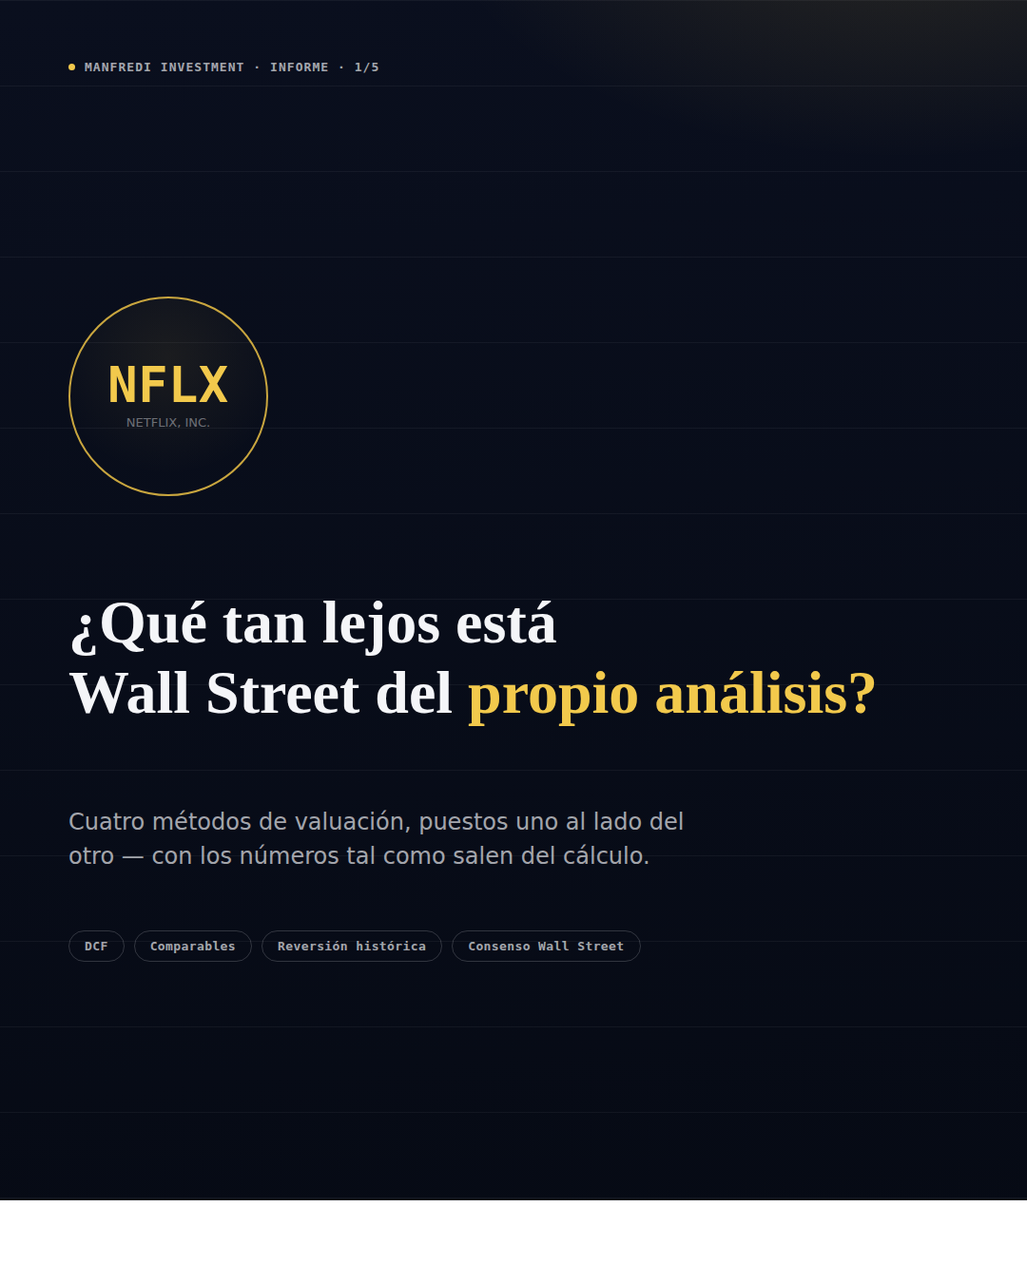
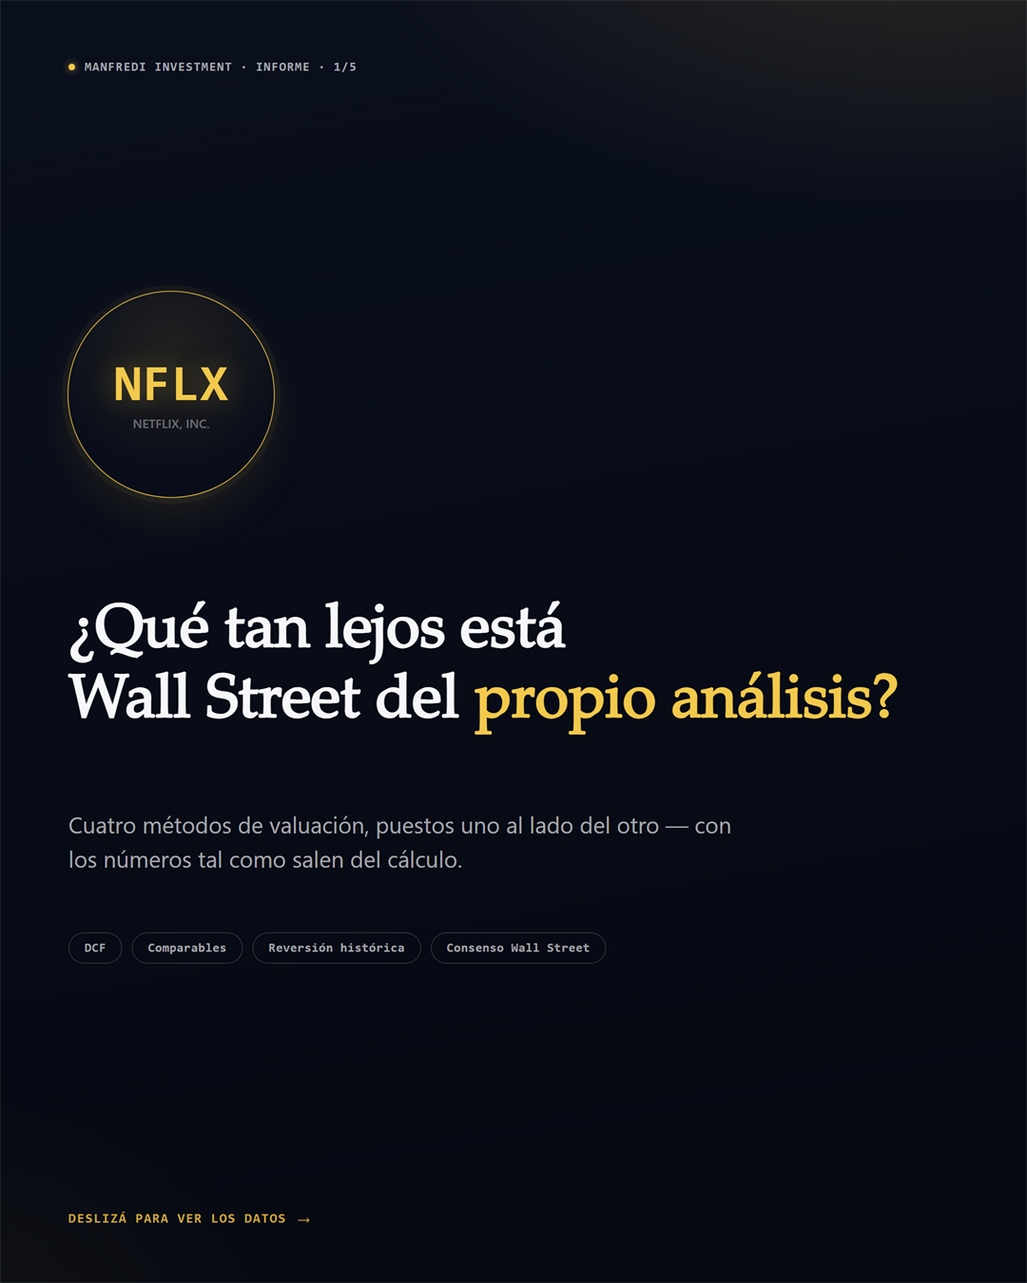
fix: rehace el carrusel de NFLX con el sistema visual v2 aprobado
Este carrusel lo genero el robot diario antes de que se terminara de
ajustar el diseno (corrio a las 00:05 UTC con el _shared.css viejo).
El analisis y el copy del bot eran buenos, solo se restilizo con las
mismas clases nuevas usadas en carousel-v2-nvda/ (sin ruled-bg, sin
gridlines, barras pildora con degrade, insight en tarjeta).

diff --git a/marketing/ig-posts/2026-08-08-nflx/_shared.css b/marketing/ig-posts/2026-08-08-nflx/_shared.css
@@ -3,12 +3,12 @@
   src: local('Iowan Old Style'), local('Palatino Linotype'), local('Palatino'), local('Georgia');
 }
 :root {
-  --navy: #0A0F1E; --navy-2: #060A14; --navy-panel: #111A2E;
-  --gold: #F2C94C; --gold-dim: #C9A63F; --gold-glow: rgba(242,201,76,.14);
-  --green: #34D399; --red-muted: #C97A6B;
-  --off-white: #F4F5F8; --ink-2: rgba(244,245,248,.68); --ink-3: rgba(244,245,248,.42);
-  --hair: rgba(244,245,248,.10); --hair-strong: rgba(244,245,248,.18);
-  --slate: #5B6785;
+  --navy: #0A0F1E; --navy-2: #050810; --navy-panel: #111A2E;
+  --gold: #F2C94C; --gold-lt: #FFE9A8; --gold-dim: #C9A63F; --gold-glow: rgba(242,201,76,.16);
+  --bull: #1F8F6B; --bull-lt: #3FBE93; --bear: #B8654F; --bear-lt: #D08268;
+  --off-white: #F6F7FA; --ink-2: rgba(246,247,250,.66); --ink-3: rgba(246,247,250,.40);
+  --ghost-fill-a: rgba(246,247,250,.15); --ghost-fill-b: rgba(246,247,250,.05); --ghost-border: rgba(246,247,250,.24);
+  --hair-strong: rgba(246,247,250,.16);
   --serif: 'MISerif', 'Iowan Old Style', 'Palatino Linotype', Palatino, Georgia, serif;
   --sans: -apple-system, 'Segoe UI', system-ui, Roboto, Helvetica, Arial, sans-serif;
   --mono: ui-monospace, 'SF Mono', Consolas, monospace;
@@ -20,30 +20,26 @@ body { font-family: var(--sans); }
 .slide {
   width: 1080px; height: 1350px; position: relative; overflow: hidden;
   background:
-    radial-gradient(900px 500px at 88% -8%, var(--gold-glow), transparent 55%),
-    linear-gradient(175deg, var(--navy) 0%, var(--navy-2) 100%);
+    radial-gradient(1100px 620px at 90% -10%, var(--gold-glow), transparent 58%),
+    radial-gradient(800px 500px at -10% 105%, rgba(242,201,76,.06), transparent 55%),
+    linear-gradient(170deg, var(--navy) 0%, var(--navy-2) 100%);
   color: var(--off-white);
   display: flex; flex-direction: column;
   padding: 64px 72px 56px;
-}
-.ruled-bg {
-  position: absolute; inset: 0; pointer-events: none;
-  background-image: linear-gradient(var(--hair) 1px, transparent 1px);
-  background-size: 100% 90px; opacity: .5;
 }
 
 /* header row: shared across slides 2-5 */
 .slide-head { display: flex; align-items: center; justify-content: space-between; z-index: 2; }
 .slide-eyebrow { display: flex; align-items: center; gap: 10px; }
-.eyebrow-dot { width: 7px; height: 7px; border-radius: 50%; background: var(--gold); }
+.eyebrow-dot { width: 7px; height: 7px; border-radius: 50%; background: var(--gold); box-shadow: 0 0 8px rgba(242,201,76,.7); }
 .eyebrow-text { font: 600 13px/1 var(--mono); letter-spacing: .08em; text-transform: uppercase; color: var(--ink-2); }
-.ticker-mini { display: flex; align-items: center; gap: 9px; }
-.ticker-mini-badge { font: 700 15px/1 var(--mono); background: var(--gold); color: var(--navy); padding: 6px 10px 5px; border-radius: 3px; letter-spacing: .02em; }
+.ticker-mini { display: flex; align-items: center; gap: 10px; }
+.ticker-mini-badge { font: 700 15px/1 var(--mono); background: linear-gradient(180deg,var(--gold-lt),var(--gold) 60%,var(--gold-dim)); color: var(--navy); padding: 7px 11px 6px; border-radius: 5px; letter-spacing: .02em; box-shadow: 0 3px 10px rgba(242,201,76,.25); }
 .ticker-mini-name { font: 500 13px/1 var(--sans); color: var(--ink-3); }
 
-.slide-title { font: 600 46px/1.2 var(--serif); letter-spacing: -.01em; margin: 30px 0 8px; max-width: 880px; z-index: 2; }
+.slide-title { font: 600 46px/1.22 var(--serif); letter-spacing: -.01em; margin: 28px 0 6px; max-width: 880px; z-index: 2; text-wrap: balance; }
 .slide-title .accent { color: var(--gold); }
-.slide-kicker { font: 600 15px/1 var(--mono); letter-spacing: .06em; text-transform: uppercase; color: var(--gold-dim); margin: 0 0 14px; z-index: 2; }
+.slide-kicker { font: 600 14px/1 var(--mono); letter-spacing: .08em; text-transform: uppercase; color: var(--gold-dim); margin: 0 0 16px; z-index: 2; }
 
 /* footer, shared */
 .slide-footer {
@@ -55,60 +51,67 @@ body { font-family: var(--sans); }
 .cta-url { font: 500 15px/1 var(--mono); color: var(--ink-3); }
 .progress { display: flex; gap: 6px; }
 .progress i { width: 22px; height: 3px; border-radius: 2px; background: var(--hair-strong); display: block; }
-.progress i.on { background: var(--gold); }
+.progress i.on { background: var(--gold); box-shadow: 0 0 6px rgba(242,201,76,.6); }
 
-/* ===== horizontal bar chart (football field) ===== */
-.hchart { z-index: 2; margin-top: 26px; }
-.hchart-axis { position: relative; height: 22px; margin-bottom: 6px; }
-.hchart-axis span { position: absolute; top: 0; transform: translateX(-50%); font: 500 12px/1 var(--mono); color: var(--ink-3); }
-.hchart-grid { position: relative; }
-.hchart-gridline { position: absolute; top: 0; bottom: 0; width: 1px; background: var(--hair); }
-.hrow { position: relative; display: flex; align-items: center; height: 84px; }
-.hrow-label { position: absolute; left: 0; top: 8px; font: 600 15px/1.3 var(--sans); color: var(--ink-2); max-width: 220px; }
-.hrow-track { position: absolute; left: 0; right: 0; top: 38px; height: 30px; }
-.hbar { position: absolute; left: 0; top: 0; height: 100%; border-radius: 0 3px 3px 0; }
-.hbar.method { background: linear-gradient(90deg, var(--slate), #7889AC); }
-.hbar.method.emph { background: linear-gradient(90deg, var(--gold-dim), var(--gold)); }
-.hbar-val { position: absolute; top: 50%; transform: translateY(-50%); font: 700 17px/1 var(--mono); color: var(--navy); padding-left: 12px; }
-.hbar-val.outside { color: var(--off-white); }
-.price-line { position: absolute; top: -6px; bottom: -6px; width: 2px; background: var(--off-white); z-index: 3; }
-.price-line::after {
-  content: attr(data-label); position: absolute; top: -30px; left: 50%; transform: translateX(-50%);
-  font: 700 12.5px/1 var(--mono); color: var(--off-white); white-space: nowrap; letter-spacing: .02em;
+/* ===== horizontal bar chart (football field) — no gridlines, direct labels ===== */
+.hchart { z-index: 2; margin-top: 34px; }
+.hrow { position: relative; display: flex; align-items: center; height: 96px; }
+.hrow-label { position: absolute; left: 0; top: 6px; font: 600 16px/1.3 var(--sans); color: var(--ink-2); max-width: 320px; }
+.hrow-label b { color: var(--off-white); font-weight: 650; }
+.hrow-track { position: absolute; left: 0; right: 0; top: 40px; height: 38px; }
+.hbar { position: absolute; left: 0; top: 0; height: 100%; border-radius: 999px; }
+.hbar.method {
+  background: linear-gradient(180deg, var(--ghost-fill-a), var(--ghost-fill-b));
+  border: 1px solid var(--ghost-border);
+  box-shadow: inset 0 1px 0 rgba(255,255,255,.10);
 }
-.price-line::before {
-  content: ''; position: absolute; top: -6px; left: 50%; transform: translateX(-50%);
-  border-left: 5px solid transparent; border-right: 5px solid transparent; border-top: 5px solid var(--off-white);
+.hbar.method.emph {
+  background: linear-gradient(180deg, var(--gold-lt) 0%, var(--gold) 55%, var(--gold-dim) 100%);
+  box-shadow: 0 8px 24px rgba(242,201,76,.38), inset 0 1px 0 rgba(255,255,255,.55);
+  border: none;
+}
+.hbar-val { position: absolute; top: 50%; transform: translateY(-50%); font: 700 19px/1 var(--mono); color: var(--off-white); }
+.hbar-val.emph-val { color: var(--gold); }
+.price-line { position: absolute; top: -14px; bottom: 0; width: 1.5px; background: linear-gradient(180deg, rgba(246,247,250,.85), rgba(246,247,250,.15)); z-index: 3; }
+.price-flag {
+  position: absolute; top: -38px; left: 50%; transform: translateX(-50%);
+  background: var(--navy-panel); border: 1px solid var(--hair-strong); border-radius: 5px;
+  padding: 5px 10px; font: 700 12px/1 var(--mono); color: var(--gold); white-space: nowrap;
+  box-shadow: 0 4px 12px rgba(0,0,0,.3);
 }
 
-/* ===== vertical bar chart ===== */
-.vchart { z-index: 2; margin-top: 30px; display: flex; align-items: flex-end; gap: 44px; height: 560px; position: relative; padding-left: 4px; }
-.vchart-gridline { position: absolute; left: 0; right: 0; height: 1px; background: var(--hair); }
-.vchart-gridline span { position: absolute; left: -6px; top: -8px; transform: translateX(-100%); font: 500 12px/1 var(--mono); color: var(--ink-3); }
+/* ===== vertical bar chart — single baseline, no grid ===== */
+.vchart { z-index: 2; margin-top: 36px; display: flex; align-items: flex-end; gap: 48px; height: 560px; position: relative; padding-left: 4px; border-bottom: 1px solid var(--hair-strong); }
 .vcol { position: relative; flex: 1; display: flex; flex-direction: column; align-items: center; justify-content: flex-end; height: 100%; }
-.vbar { width: 100%; max-width: 168px; border-radius: 4px 4px 0 0; position: relative; }
-.vbar-val { position: absolute; top: -34px; left: 50%; transform: translateX(-50%); font: 700 22px/1 var(--mono); color: var(--off-white); white-space: nowrap; }
-.vcol-label { margin-top: 16px; font: 600 15px/1.3 var(--sans); color: var(--ink-2); text-align: center; }
+.vbar { width: 100%; max-width: 176px; border-radius: 14px 14px 3px 3px; position: relative; }
+.vbar.gold { background: linear-gradient(180deg, var(--gold-lt) 0%, var(--gold) 55%, var(--gold-dim) 100%); box-shadow: 0 10px 30px rgba(242,201,76,.32); }
+.vbar.ghost { background: linear-gradient(180deg, var(--ghost-fill-a), var(--ghost-fill-b)); border: 1px solid var(--ghost-border); box-shadow: inset 0 1px 0 rgba(255,255,255,.10); }
+.vbar.bear { background: linear-gradient(180deg, var(--bear-lt), var(--bear)); box-shadow: 0 8px 22px rgba(184,101,79,.28); }
+.vbar.bull { background: linear-gradient(180deg, var(--bull-lt), var(--bull)); box-shadow: 0 8px 22px rgba(31,143,107,.3); }
+.vbar-val { position: absolute; top: -38px; left: 50%; transform: translateX(-50%); font: 700 24px/1 var(--mono); color: var(--off-white); white-space: nowrap; }
+.vbar-val.gold-val { color: var(--gold); }
+.vcol-label { margin-top: 18px; font: 600 16px/1.3 var(--sans); color: var(--ink-2); text-align: center; }
 .vcol-sub { font: 500 12px/1.3 var(--mono); color: var(--ink-3); text-align: center; margin-top: 3px; }
-.ref-line { position: absolute; left: -4px; right: -4px; height: 0; border-top: 2px dashed rgba(244,245,248,.55); z-index: 3; }
-.ref-line span { position: absolute; right: 0; top: -22px; font: 700 12.5px/1 var(--mono); color: var(--off-white); background: var(--navy); padding: 2px 6px; }
+.ref-line { position: absolute; left: -6px; right: -6px; height: 1.5px; background: linear-gradient(90deg, rgba(246,247,250,.05), rgba(246,247,250,.75) 15%, rgba(246,247,250,.75) 85%, rgba(246,247,250,.05)); z-index: 3; }
+.ref-line span { position: absolute; right: 4px; top: -34px; font: 700 12.5px/1 var(--mono); color: var(--gold); background: var(--navy-panel); border: 1px solid var(--hair-strong); padding: 5px 10px; border-radius: 5px; box-shadow: 0 4px 12px rgba(0,0,0,.3); }
 
-/* ===== annotation callout ===== */
-.insight { z-index: 2; margin-top: 34px; display: flex; gap: 14px; align-items: flex-start; max-width: 840px; }
-.insight-mark { flex: 0 0 auto; width: 28px; height: 28px; border-radius: 50%; background: var(--gold); color: var(--navy); font: 700 15px/28px var(--serif); text-align: center; }
-.insight p { margin: 0; font: 400 19px/1.55 var(--sans); color: var(--ink-2); }
+/* ===== annotation callout — bordered card, editorial eyebrow instead of icon ===== */
+.insight { z-index: 2; margin-top: 40px; max-width: 860px; background: linear-gradient(135deg, rgba(246,247,250,.05), rgba(246,247,250,.02)); border: 1px solid var(--hair-strong); border-left: 3px solid var(--gold); border-radius: 4px; padding: 20px 24px; }
+.insight .insight-eyebrow { display: block; font: 700 11.5px/1 var(--mono); letter-spacing: .1em; text-transform: uppercase; color: var(--gold-dim); margin-bottom: 10px; }
+.insight p { margin: 0; font: 400 19.5px/1.55 var(--sans); color: var(--ink-2); }
 .insight strong { color: var(--off-white); font-weight: 650; }
 
 /* cover slide (1) specifics */
 .cover-badge {
-  width: 210px; height: 210px; border-radius: 50%; border: 2px solid var(--gold-dim);
+  width: 216px; height: 216px; border-radius: 50%; position: relative; z-index: 2;
   display: flex; flex-direction: column; align-items: center; justify-content: center;
-  margin: 40px 0 36px; position: relative; z-index: 2;
-  background: radial-gradient(circle at 50% 30%, rgba(242,201,76,.08), transparent 70%);
+  margin: 40px 0 36px;
+  background: radial-gradient(circle at 50% 28%, rgba(242,201,76,.10), transparent 72%);
+  box-shadow: 0 0 0 1px var(--gold-dim), 0 0 0 7px rgba(242,201,76,.05), 0 20px 50px rgba(242,201,76,.10);
 }
-.cover-badge .tk { font: 700 52px/1 var(--mono); color: var(--gold); letter-spacing: .01em; }
-.cover-badge .co { font: 500 13px/1.3 var(--sans); color: var(--ink-3); margin-top: 6px; text-align: center; padding: 0 20px; }
-.cover-headline { font: 600 64px/1.15 var(--serif); max-width: 880px; z-index: 2; text-wrap: balance; }
+.cover-badge .tk { font: 700 54px/1 var(--mono); color: var(--gold); letter-spacing: .01em; text-shadow: 0 0 30px rgba(242,201,76,.35); }
+.cover-badge .co { font: 500 13px/1.3 var(--sans); color: var(--ink-3); margin-top: 7px; text-align: center; padding: 0 20px; }
+.cover-headline { font: 600 64px/1.16 var(--serif); max-width: 880px; z-index: 2; text-wrap: balance; }
 .cover-headline .accent { color: var(--gold); }
 .cover-sub { font: 400 24px/1.5 var(--sans); color: var(--ink-2); max-width: 700px; margin-top: 18px; z-index: 2; }
 .swipe-cue { z-index: 2; margin-top: auto; padding-top: 26px; display: flex; align-items: center; gap: 10px; }
@@ -117,14 +120,16 @@ body { font-family: var(--sans); }
 
 /* CTA slide (5) specifics */
 .cta-wrap { flex: 1; display: flex; flex-direction: column; justify-content: center; z-index: 2; }
-.cta-title { font: 600 58px/1.18 var(--serif); max-width: 820px; margin: 0 0 22px; }
+.cta-title { font: 600 58px/1.18 var(--serif); max-width: 820px; margin: 0 0 24px; text-wrap: balance; }
 .cta-title .accent { color: var(--gold); }
-.cta-list { list-style: none; margin: 0 0 40px; padding: 0; display: flex; flex-direction: column; gap: 13px; }
-.cta-list li { font: 500 20px/1.4 var(--sans); color: var(--ink-2); display: flex; gap: 12px; }
-.cta-list li .m { color: var(--gold-dim); }
+.cta-list { list-style: none; margin: 0 0 40px; padding: 0; display: flex; flex-direction: column; gap: 15px; }
+.cta-list li { font: 500 20px/1.4 var(--sans); color: var(--ink-2); display: flex; gap: 14px; align-items: baseline; }
+.cta-list li .m { color: var(--gold); font-family: var(--serif); font-size: 22px; }
 .cta-button {
   display: inline-flex; align-items: center; gap: 10px; align-self: flex-start;
-  background: var(--gold); color: var(--navy); font: 700 20px/1 var(--sans);
-  padding: 18px 26px; border-radius: 4px; letter-spacing: -.005em;
+  background: linear-gradient(180deg, var(--gold-lt), var(--gold) 60%, var(--gold-dim));
+  color: var(--navy); font: 700 20px/1 var(--sans);
+  padding: 19px 28px; border-radius: 6px; letter-spacing: -.005em;
+  box-shadow: 0 10px 30px rgba(242,201,76,.3);
 }
-.cta-disclaimer { font: 400 13px/1.5 var(--sans); color: var(--ink-3); margin-top: 22px; max-width: 620px; font-style: italic; }
+.cta-disclaimer { font: 400 13px/1.5 var(--sans); color: var(--ink-3); margin-top: 24px; max-width: 620px; font-style: italic; }

diff --git a/marketing/ig-posts/2026-08-08-nflx/slide-2-football-field.html b/marketing/ig-posts/2026-08-08-nflx/slide-2-football-field.html
@@ -1,7 +1,6 @@
 <!doctype html><html><head><meta charset="utf-8"><link rel="stylesheet" href="_shared.css"></head>
 <body>
 <div class="slide">
-  <div class="ruled-bg"></div>
   <div class="slide-head">
     <div class="slide-eyebrow">
       <span class="eyebrow-dot"></span>
@@ -17,51 +16,35 @@
   <p class="slide-title">Tres métodos casi coinciden.<br><span class="accent">Wall Street no.</span></p>
 
   <div class="hchart">
-    <div class="hchart-axis">
-      <span style="left:0%;">$0</span>
-      <span style="left:16.67%;">$20</span>
-      <span style="left:33.33%;">$40</span>
-      <span style="left:50%;">$60</span>
-      <span style="left:66.67%;">$80</span>
-      <span style="left:83.33%;">$100</span>
-      <span style="left:100%;">$120</span>
+    <div class="hrow" style="margin-top:6px;">
+      <span class="hrow-label"><b>DCF — Base</b> · el más riguroso</span>
+      <div class="hrow-track">
+        <div class="price-line" style="left:61.1%;"></div>
+        <span class="price-flag" style="left:61.1%; transform:translate(-50%,0);">PRECIO ACTUAL $73.33</span>
+        <div class="hbar method emph" style="width:48.2%;"></div>
+        <span class="hbar-val emph-val" style="left:calc(48.2% + 16px);">$57.81</span>
+      </div>
     </div>
-    <div class="hchart-grid" style="padding-top:6px;">
-      <div class="hchart-gridline" style="left:0%;"></div>
-      <div class="hchart-gridline" style="left:16.67%;"></div>
-      <div class="hchart-gridline" style="left:33.33%;"></div>
-      <div class="hchart-gridline" style="left:50%;"></div>
-      <div class="hchart-gridline" style="left:66.67%;"></div>
-      <div class="hchart-gridline" style="left:83.33%;"></div>
-      <div class="hchart-gridline" style="left:100%;"></div>
-      <div class="price-line" style="left:61.11%;" data-label="PRECIO ACTUAL — $73.33"></div>
-
-      <div class="hrow">
-        <span class="hrow-label">DCF — Base <span style="color:var(--gold-dim);">(riguroso)</span></span>
-        <div class="hrow-track">
-          <div class="hbar method emph" style="width:48.18%;"></div>
-          <span class="hbar-val outside" style="left:calc(48.18% + 14px);">$57.81</span>
-        </div>
+    <div class="hrow">
+      <span class="hrow-label">Comparables (panel P/E)</span>
+      <div class="hrow-track">
+        <div class="price-line" style="left:61.1%;"></div>
+        <div class="hbar method" style="width:53.4%;"></div>
+        <span class="hbar-val" style="left:calc(53.4% + 16px);">$64.08</span>
       </div>
-      <div class="hrow">
-        <span class="hrow-label">Comparables (P/E panel)</span>
-        <div class="hrow-track">
-          <div class="hbar method" style="width:53.4%;"></div>
-          <span class="hbar-val outside" style="left:calc(53.4% + 14px);">$64.08</span>
-        </div>
-      </div>
-      <div class="hrow">
-        <span class="hrow-label">Consenso Wall Street</span>
-        <div class="hrow-track">
-          <div class="hbar method" style="width:78.61%;"></div>
-          <span class="hbar-val outside" style="left:calc(78.61% + 14px);">$94.33</span>
-        </div>
+    </div>
+    <div class="hrow">
+      <span class="hrow-label">Consenso Wall Street</span>
+      <div class="hrow-track">
+        <div class="price-line" style="left:61.1%;"></div>
+        <div class="hbar method" style="width:78.6%;"></div>
+        <span class="hbar-val" style="left:calc(78.6% + 16px);">$94.33</span>
       </div>
     </div>
   </div>
 
   <div class="insight">
-    <span class="insight-mark">i</span>
+    <span class="insight-eyebrow">Por qué importa</span>
     <p><strong>El promedio de DCF Base, comparables y consenso da $72.07</strong> — apenas 1.7% por debajo del mercado. Pero tomado solo, el consenso de Wall Street ($94.33) implica un upside de 28.6% que ni el DCF ni los comparables convalidan.</p>
   </div>
 

diff --git a/marketing/ig-posts/2026-08-08-nflx/slide-4-reversion-excluida.html b/marketing/ig-posts/2026-08-08-nflx/slide-4-reversion-excluida.html
@@ -1,7 +1,6 @@
 <!doctype html><html><head><meta charset="utf-8"><link rel="stylesheet" href="_shared.css"></head>
 <body>
 <div class="slide">
-  <div class="ruled-bg"></div>
   <div class="slide-head">
     <div class="slide-eyebrow">
       <span class="eyebrow-dot"></span>
@@ -17,29 +16,24 @@
   <p class="slide-title">Ni la ventana más corta<br>da un número <span class="accent">creíble.</span></p>
 
   <div class="vchart" style="height:480px;">
-    <div class="vchart-gridline" style="top:0%;"><span>$400</span></div>
-    <div class="vchart-gridline" style="top:25%;"><span>$300</span></div>
-    <div class="vchart-gridline" style="top:50%;"><span>$200</span></div>
-    <div class="vchart-gridline" style="top:75%;"><span>$100</span></div>
-    <div class="vchart-gridline" style="top:100%;"><span>$0</span></div>
-    <div class="ref-line" style="top:81.67%;"><span>PRECIO $73.33</span></div>
+    <div class="ref-line" style="bottom:18.33%;"><span>PRECIO $73.33</span></div>
 
     <div class="vcol">
-      <div class="vbar" style="height:37.62%; background:linear-gradient(180deg,var(--slate),#7889AC);">
+      <div class="vbar ghost" style="height:37.62%;">
         <span class="vbar-val">$150.49</span>
       </div>
       <span class="vcol-label">Promedio 5 años</span>
       <span class="vcol-sub">41.92x P/E</span>
     </div>
     <div class="vcol">
-      <div class="vbar" style="height:55.48%; background:linear-gradient(180deg,var(--slate),#7889AC);">
+      <div class="vbar ghost" style="height:55.48%;">
         <span class="vbar-val">$221.90</span>
       </div>
       <span class="vcol-label">Prom. 10 años (bajo)</span>
       <span class="vcol-sub">61.84x P/E</span>
     </div>
     <div class="vcol">
-      <div class="vbar" style="height:80.10%; background:linear-gradient(180deg,var(--slate),#7889AC);">
+      <div class="vbar ghost" style="height:80.10%;">
         <span class="vbar-val">$320.38</span>
       </div>
       <span class="vcol-label">Prom. 10 años (alto)</span>
@@ -48,8 +42,8 @@
   </div>
 
   <div class="insight">
-    <span class="insight-mark">i</span>
-    <p><strong>El promedio de 10 años oscila entre 61.84x y 89.24x según la fuente</strong> —más de 30 puntos de múltiplo de diferencia—, muy por encima del umbral que este desk considera aceptable. Ni la ventana de 5 años, la más corta disponible, da un precio implícito con relación al mercado.</p>
+    <span class="insight-eyebrow">Por qué importa</span>
+    <p><strong>El promedio de 10 años oscila entre 61.84x y 89.24x según la fuente</strong> —más de 30 puntos de múltiplo de diferencia—, muy por encima del umbral que este desk considera aceptable. Ni la ventana de 5 años, la más corta disponible, da un precio implícito cercano al mercado.</p>
   </div>
 
   <div class="slide-footer">

diff --git a/marketing/ig-posts/2026-08-08-nflx/slide-3-dcf-scenarios.html b/marketing/ig-posts/2026-08-08-nflx/slide-3-dcf-scenarios.html
@@ -1,7 +1,6 @@
 <!doctype html><html><head><meta charset="utf-8"><link rel="stylesheet" href="_shared.css"></head>
 <body>
 <div class="slide">
-  <div class="ruled-bg"></div>
   <div class="slide-head">
     <div class="slide-eyebrow">
       <span class="eyebrow-dot"></span>
@@ -17,29 +16,24 @@
   <p class="slide-title">Solo el escenario Bull<br><span class="accent">supera el precio actual.</span></p>
 
   <div class="vchart">
-    <div class="vchart-gridline" style="top:0%;"><span>$100</span></div>
-    <div class="vchart-gridline" style="top:25%;"><span>$75</span></div>
-    <div class="vchart-gridline" style="top:50%;"><span>$50</span></div>
-    <div class="vchart-gridline" style="top:75%;"><span>$25</span></div>
-    <div class="vchart-gridline" style="top:100%;"><span>$0</span></div>
-    <div class="ref-line" style="top:26.67%;"><span>PRECIO $73.33</span></div>
+    <div class="ref-line" style="bottom:73.33%;"><span>PRECIO $73.33</span></div>
 
     <div class="vcol">
-      <div class="vbar" style="height:36.69%; background:linear-gradient(180deg,#B08A83,var(--red-muted));">
+      <div class="vbar bear" style="height:36.69%;">
         <span class="vbar-val">$36.69</span>
       </div>
       <span class="vcol-label">Bear</span>
       <span class="vcol-sub">crec. 13%→3%</span>
     </div>
     <div class="vcol">
-      <div class="vbar" style="height:57.81%; background:linear-gradient(180deg,var(--gold),var(--gold-dim));">
-        <span class="vbar-val" style="color:var(--off-white);">$57.81</span>
+      <div class="vbar gold" style="height:57.81%;">
+        <span class="vbar-val gold-val">$57.81</span>
       </div>
       <span class="vcol-label">Base</span>
       <span class="vcol-sub">crec. 13%→6%</span>
     </div>
     <div class="vcol">
-      <div class="vbar" style="height:88.83%; background:linear-gradient(180deg,#5FE0B5,var(--green));">
+      <div class="vbar bull" style="height:88.83%;">
         <span class="vbar-val">$88.83</span>
       </div>
       <span class="vcol-label">Bull</span>
@@ -48,7 +42,7 @@
   </div>
 
   <div class="insight">
-    <span class="insight-mark">i</span>
+    <span class="insight-eyebrow">Por qué importa</span>
     <p><strong>En el caso Base, el que este desk considera más representativo, el fair value ($57.81) queda 21% por debajo del precio de mercado.</strong> Hace falta el escenario Bull —margen operativo de 40.5% hacia el año 5— para justificar el precio actual solo con el DCF.</p>
   </div>
 

diff --git a/marketing/ig-posts/2026-08-08-nflx/slide-1-cover.html b/marketing/ig-posts/2026-08-08-nflx/slide-1-cover.html
@@ -1,7 +1,6 @@
 <!doctype html><html><head><meta charset="utf-8"><link rel="stylesheet" href="_shared.css"></head>
 <body>
 <div class="slide">
-  <div class="ruled-bg"></div>
   <div class="slide-head">
     <div class="slide-eyebrow">
       <span class="eyebrow-dot"></span>

diff --git a/marketing/ig-posts/2026-08-08-nflx/slide-5-cta.html b/marketing/ig-posts/2026-08-08-nflx/slide-5-cta.html
@@ -1,7 +1,6 @@
 <!doctype html><html><head><meta charset="utf-8"><link rel="stylesheet" href="_shared.css"></head>
 <body>
 <div class="slide">
-  <div class="ruled-bg"></div>
   <div class="slide-head">
     <div class="slide-eyebrow">
       <span class="eyebrow-dot"></span>
